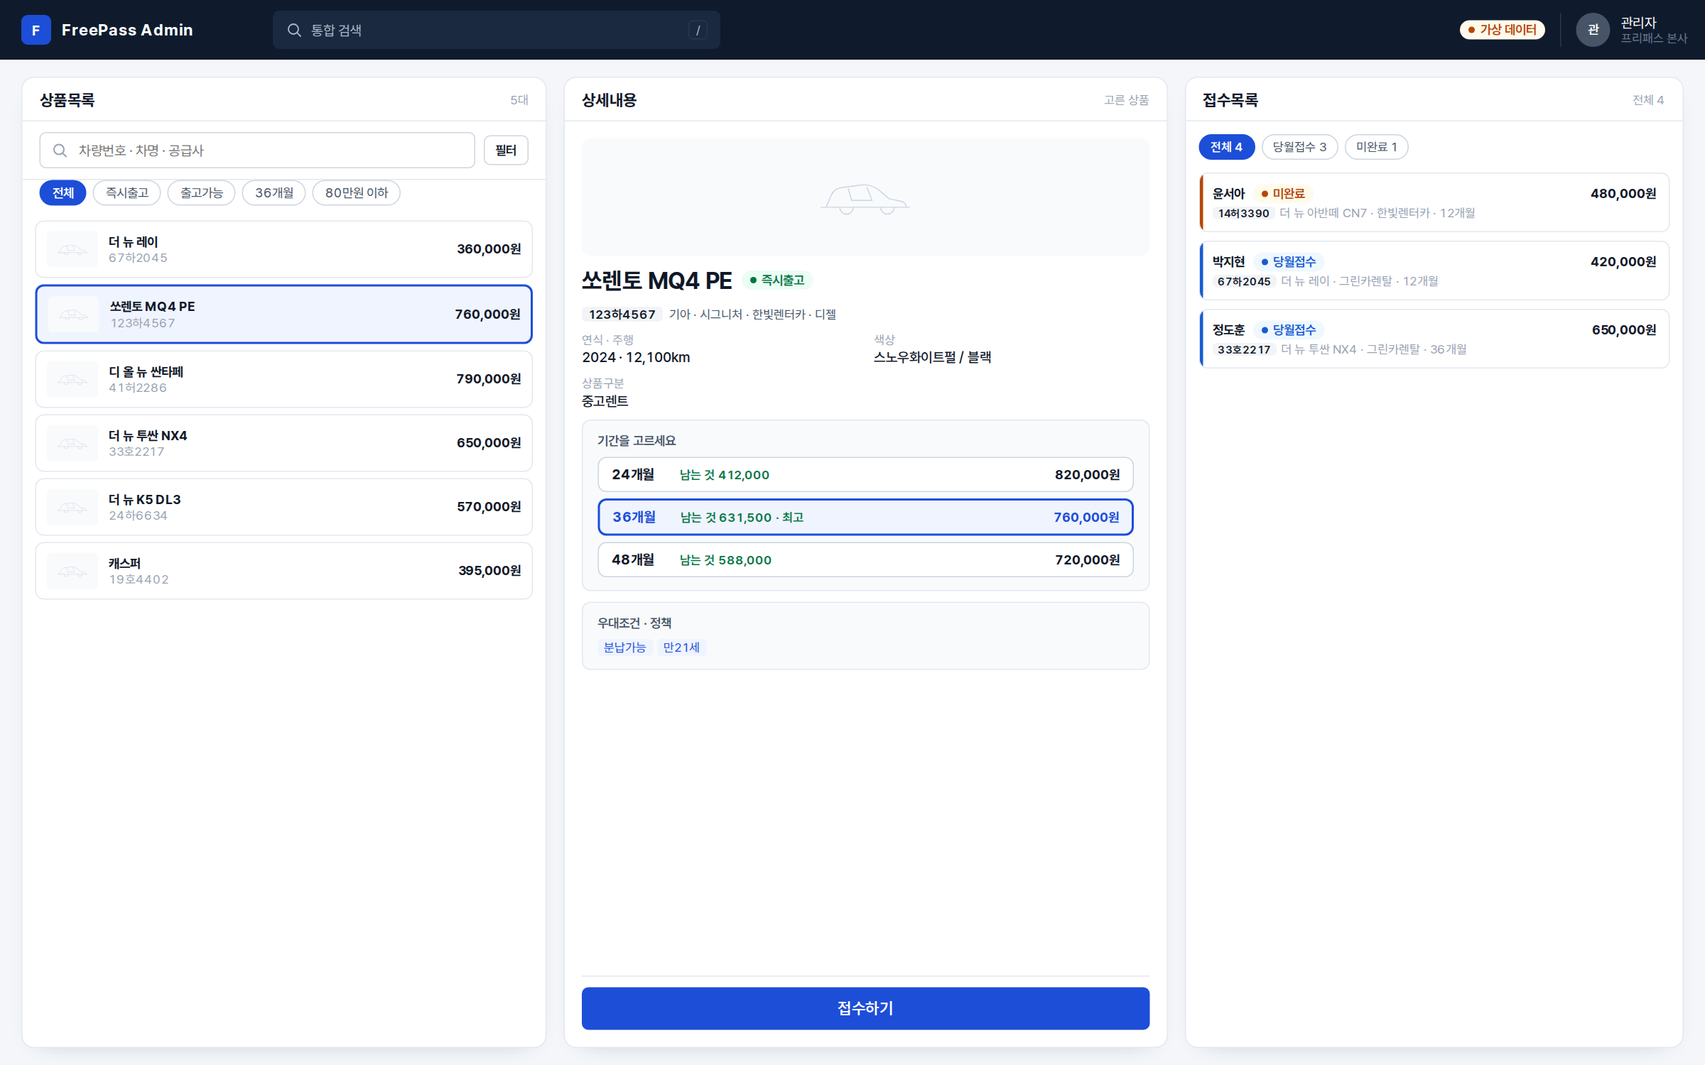
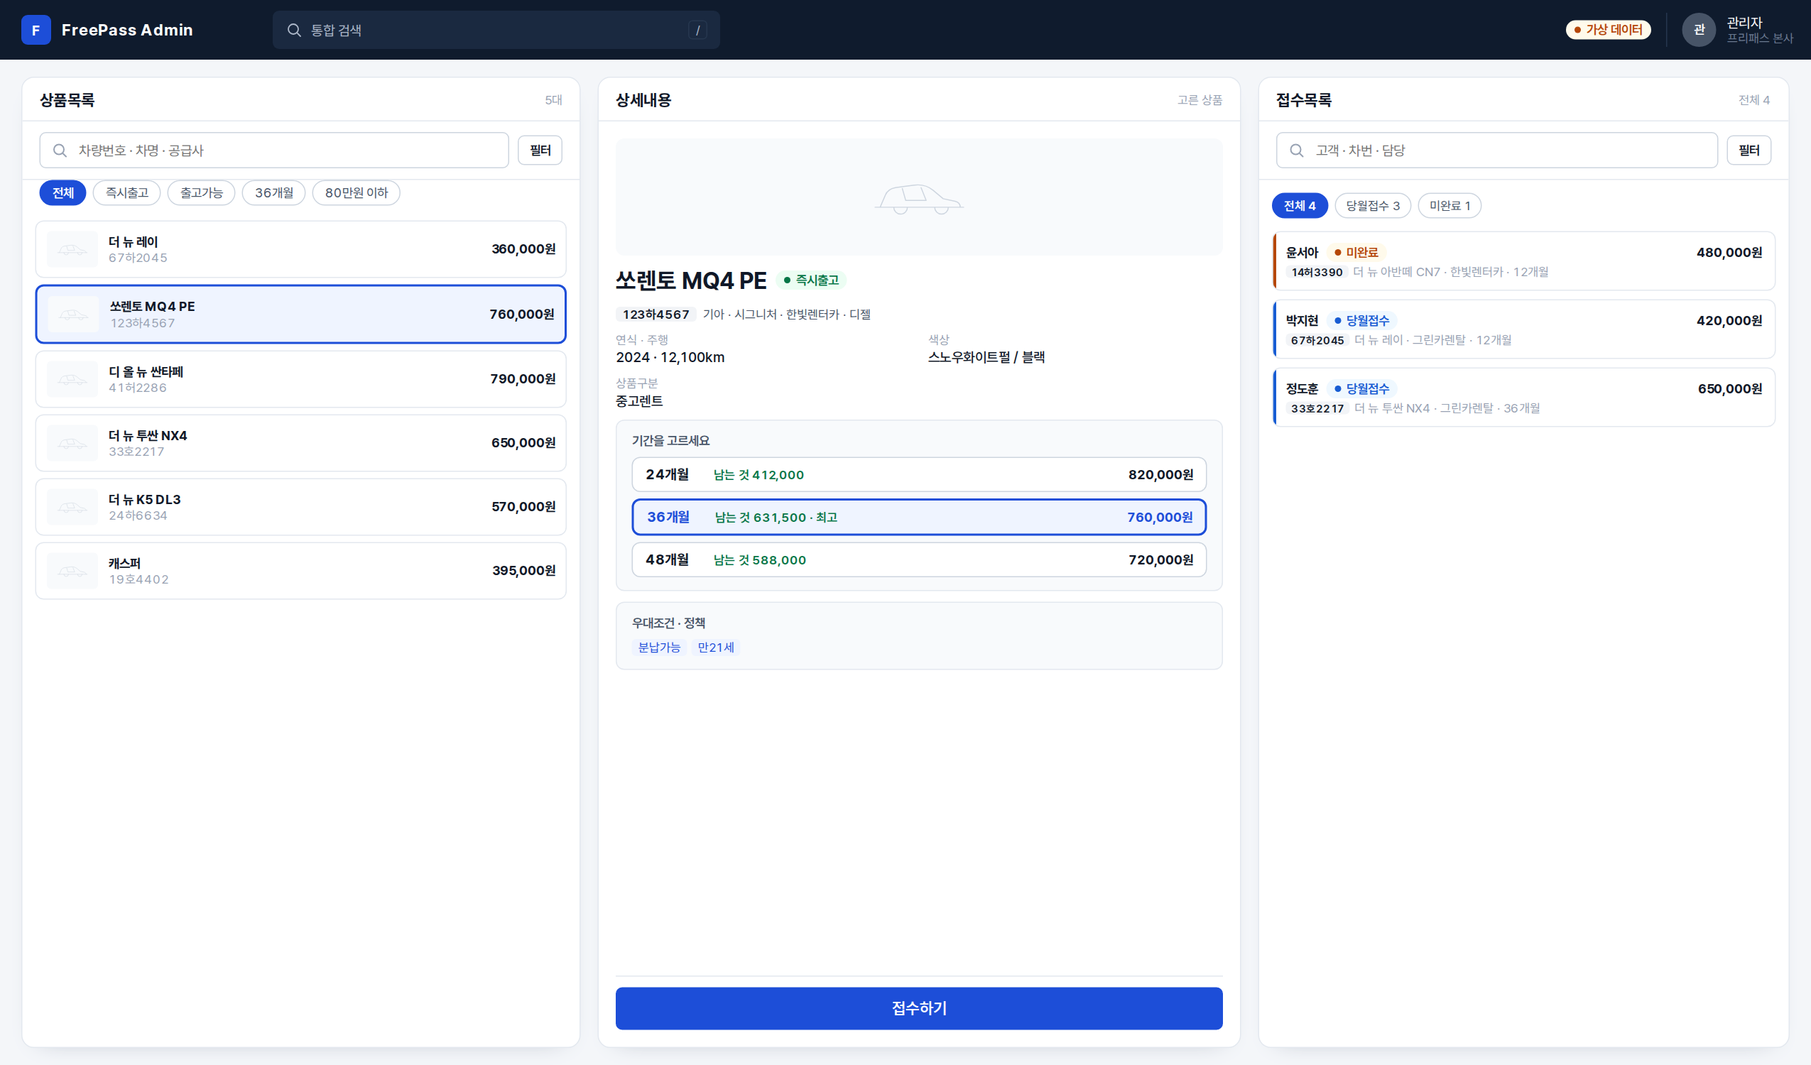
[Claude] 시안 I 확정 — 패널 3개 유지, 목록 패널 규격(검색·필터·퀵필터) 상품/접수 동일화, 폰 뎁스 내비게이션
Claude-Session: https://claude.ai/code/session_01VHqvSXhUy82o1cFFrYMP3F

diff --git a/design/erp-standard/proposals/three-panel-v2/mobile.html b/design/erp-standard/proposals/three-panel-v2/mobile.html
@@ -1,0 +1,93 @@
+<!doctype html>
+<html lang="ko">
+<head>
+<meta charset="utf-8">
+<meta name="viewport" content="width=device-width, initial-scale=1">
+<title>FreePass Admin 시안 I — 폰 뎁스 내비게이션</title>
+<!-- 시안 I 폰판(대표 2026-09-24 「목록은 다 검색 · 필터가 되어야 하니까 패널 규격이 같다 …
+     나중에 다 모바일로 뎁스를 넣어서 봐야 되니까 감안해서」).
+     PC 의 세 패널(상품목록 · 상세내용 · 접수목록)이 폰에서는 화면 하나씩, «뒤로» 로 쌓이는 뎁스가 된다.
+     이름 · 차량번호는 가상 예시다. -->
+<link rel="stylesheet" href="https://cdn.jsdelivr.net/gh/orioncactus/pretendard@v1.3.9/dist/web/variable/pretendardvariable-dynamic-subset.css">
+<link rel="stylesheet" href="../../erp.css">
+<link rel="stylesheet" href="three-panel-v2.css">
+</head>
+<body class="erp-app f3v-mobile-page">
+<h1 class="f3v-mobile-title">폰 — 뎁스로 한 장씩</h1>
+<p class="f3v-mobile-desc">PC 의 세 패널이 폰에서는 화면 하나씩입니다. 목록 → 상세내용(뒤로 가면 목록) → 접수하기 누르면 같은 자리가 접수 작성 화면으로(취소하면 상세로) → 저장하면 접수목록 화면으로. 검색창 · 필터 버튼 · 퀵 필터는 모든 목록 화면에서 똑같습니다.</p>
+<div class="f3v-phones">
+<div class="f3v-phone-wrap">
+  <p class="f3v-phone-cap"><b>1</b>상품목록</p>
+  <div class="f3v-phone">
+    <div class="f3v-phone-top">상품찾기<small>5대</small></div>
+    <div class="f3v-phone-body">
+      <div class="f3v-searchbar"><label class="f3v-search"><svg viewBox="0 0 24 24"><circle cx="11" cy="11" r="7"/><path d="m21 21-4.3-4.3"/></svg><input placeholder="차량번호 · 차명"></label><button class="erp-btn erp-btn--sm" type="button">필터</button></div>
+      <div class="f3v-quick"><button type="button" aria-pressed="true">전체</button><button type="button" aria-pressed="false">즉시출고</button><button type="button" aria-pressed="false">36개월</button></div>
+      <div class="f3v-list">
+        <div class="f3v-prow"><div class="f3v-prow-img"><svg viewBox="0 0 120 60" aria-hidden="true"><path d="M8 42h104M14 42l6-14c2-5 6-8 12-9l22-3c8-1 16 1 22 6l12 10 14 3c4 1 6 4 6 7M30 42a8 8 0 1 0 16 0M78 42a8 8 0 1 0 16 0M40 20l4 14h24l-6-15"/></svg></div><div><b>더 뉴 레이</b><small>67하2045 · 기아 · 그린카렌탈</small></div><strong>360,000원</strong></div>
+        <div class="f3v-prow" aria-current="true"><div class="f3v-prow-img"><svg viewBox="0 0 120 60" aria-hidden="true"><path d="M8 42h104M14 42l6-14c2-5 6-8 12-9l22-3c8-1 16 1 22 6l12 10 14 3c4 1 6 4 6 7M30 42a8 8 0 1 0 16 0M78 42a8 8 0 1 0 16 0M40 20l4 14h24l-6-15"/></svg></div><div><b>쏘렌토 MQ4 PE</b><small>123하4567 · 기아 · 한빛렌터카</small></div><strong>760,000원</strong></div>
+        <div class="f3v-prow"><div class="f3v-prow-img"><svg viewBox="0 0 120 60" aria-hidden="true"><path d="M8 42h104M14 42l6-14c2-5 6-8 12-9l22-3c8-1 16 1 22 6l12 10 14 3c4 1 6 4 6 7M30 42a8 8 0 1 0 16 0M78 42a8 8 0 1 0 16 0M40 20l4 14h24l-6-15"/></svg></div><div><b>디 올 뉴 싼타페</b><small>41허2286 · 현대 · 대성모빌리티</small></div><strong>790,000원</strong></div>
+        <div class="f3v-prow"><div class="f3v-prow-img"><svg viewBox="0 0 120 60" aria-hidden="true"><path d="M8 42h104M14 42l6-14c2-5 6-8 12-9l22-3c8-1 16 1 22 6l12 10 14 3c4 1 6 4 6 7M30 42a8 8 0 1 0 16 0M78 42a8 8 0 1 0 16 0M40 20l4 14h24l-6-15"/></svg></div><div><b>더 뉴 투싼 NX4</b><small>33호2217 · 현대 · 그린카렌탈</small></div><strong>650,000원</strong></div>
+      </div>
+    </div>
+  </div>
+</div>
+<span class="f3v-phone-arrow">→</span>
+<div class="f3v-phone-wrap">
+  <p class="f3v-phone-cap"><b>2</b>상세내용 · 상품상세</p>
+  <div class="f3v-phone">
+    <div class="f3v-phone-top"><span class="f3v-phone-back">‹ 목록</span>쏘렌토 MQ4 PE</div>
+    <div class="f3v-phone-body">
+      <div class="f3v-pbody">
+        <div class="f3v-photo"><svg viewBox="0 0 120 60" aria-hidden="true"><path d="M8 42h104M14 42l6-14c2-5 6-8 12-9l22-3c8-1 16 1 22 6l12 10 14 3c4 1 6 4 6 7M30 42a8 8 0 1 0 16 0M78 42a8 8 0 1 0 16 0M40 20l4 14h24l-6-15"/></svg></div>
+        <h2 class="f3v-name">쏘렌토 MQ4 PE <span class="erp-badge erp-badge--ok">즉시출고</span></h2>
+        <p class="f3v-sub"><b>123하4567</b>한빛렌터카</p>
+        <div class="f3v-box"><p class="f3v-box-title">기간을 고르세요</p>
+          <div class="f3v-terms" style="flex-direction:column;gap:6px">
+            <div class="f3v-term" aria-pressed="false"><b>24개월</b><strong>820,000원</strong><em>남는 것 412,000</em></div>
+            <div class="f3v-term" aria-pressed="true"><b>36개월</b><strong>760,000원</strong><em>남는 것 631,500 · 최고</em></div>
+            <div class="f3v-term" aria-pressed="false"><b>48개월</b><strong>720,000원</strong><em>남는 것 588,000</em></div>
+          </div>
+        </div>
+      </div>
+    </div>
+    <div class="f3v-phone-bar"><button class="erp-btn erp-btn--primary" type="button">접수하기</button></div>
+  </div>
+</div>
+<span class="f3v-phone-arrow">→</span>
+<div class="f3v-phone-wrap">
+  <p class="f3v-phone-cap"><b>3</b>상세내용 · 접수 작성(뒤집힘)</p>
+  <div class="f3v-phone">
+    <div class="f3v-phone-top"><span class="f3v-phone-back">‹ 취소</span>접수 작성<small>필수 3/3</small></div>
+    <div class="f3v-phone-body">
+      <div class="f3v-pbody">
+        <div class="f3v-mini"><div class="f3v-mini-img"><svg viewBox="0 0 120 60" aria-hidden="true"><path d="M8 42h104M14 42l6-14c2-5 6-8 12-9l22-3c8-1 16 1 22 6l12 10 14 3c4 1 6 4 6 7M30 42a8 8 0 1 0 16 0M78 42a8 8 0 1 0 16 0M40 20l4 14h24l-6-15"/></svg></div><div><b>쏘렌토 MQ4 PE · 36개월</b><small>123하4567</small></div></div>
+        <dl class="f3v-receipt" style="grid-template-columns:1fr"><div><dt>월 대여료</dt><dd>760,000원</dd></div><div class="f3v-net"><dt>남는 것</dt><dd>631,500원</dd></div></dl>
+        <div class="f3v-form" style="grid-template-columns:1fr">
+          <label class="erp-field"><span class="erp-label">고객 *</span><input class="erp-input erp-input--focus" value="김민수"></label>
+          <label class="erp-field"><span class="erp-label">영업채널 * <span class="f3v-auto">자동</span></span><span class="erp-input">프리패스 직영<svg viewBox="0 0 24 24"><path d="m6 9 6 6 6-6"/></svg></span></label>
+        </div>
+      </div>
+    </div>
+    <div class="f3v-phone-bar"><button class="erp-btn erp-btn--primary" type="submit">접수 저장</button></div>
+  </div>
+</div>
+<span class="f3v-phone-arrow">→</span>
+<div class="f3v-phone-wrap">
+  <p class="f3v-phone-cap"><b>4</b>접수목록</p>
+  <div class="f3v-phone">
+    <div class="f3v-phone-top">계약접수<small>전체 4</small></div>
+    <div class="f3v-phone-body">
+      <div class="f3v-searchbar"><label class="f3v-search"><svg viewBox="0 0 24 24"><circle cx="11" cy="11" r="7"/><path d="m21 21-4.3-4.3"/></svg><input placeholder="고객 · 차번"></label><button class="erp-btn erp-btn--sm" type="button">필터</button></div>
+      <div class="f3v-quick"><button type="button" aria-pressed="true">전체 4</button><button type="button" aria-pressed="false">당월접수 3</button></div>
+      <div class="f3v-list">
+        <div class="f3v-lrow f3v-lrow--just" data-tone="ok"><div class="f3v-lrow-top"><b>김민수 · 방금</b><span class="erp-badge erp-badge--ok">당월접수</span><strong>760,000원/월</strong></div><div class="f3v-lrow-car"><b>123하4567</b>쏘렌토 MQ4 PE</div><ol class="f3v-lsteps"><li data-state="done"><i>✓</i>접수</li><li aria-current="step"><i>2</i>계약서</li><li><i>3</i>인도</li><li><i>4</i>청구</li><li><i>5</i>수금·지급</li></ol></div>
+        <div class="f3v-prow"><div class="f3v-prow-img"><svg viewBox="0 0 120 60" aria-hidden="true"><path d="M8 42h104M14 42l6-14c2-5 6-8 12-9l22-3c8-1 16 1 22 6l12 10 14 3c4 1 6 4 6 7M30 42a8 8 0 1 0 16 0M78 42a8 8 0 1 0 16 0M40 20l4 14h24l-6-15"/></svg></div><div><b>윤서아</b><small>14허3390 · 더 뉴 아반떼 CN7</small></div><strong>480,000원</strong></div>
+        <div class="f3v-prow"><div class="f3v-prow-img"><svg viewBox="0 0 120 60" aria-hidden="true"><path d="M8 42h104M14 42l6-14c2-5 6-8 12-9l22-3c8-1 16 1 22 6l12 10 14 3c4 1 6 4 6 7M30 42a8 8 0 1 0 16 0M78 42a8 8 0 1 0 16 0M40 20l4 14h24l-6-15"/></svg></div><div><b>박지현</b><small>67하2045 · 더 뉴 레이</small></div><strong>420,000원</strong></div>
+      </div>
+    </div>
+  </div>
+</div>
+</div>
+</body>
+</html>

diff --git a/design/erp-standard/proposals/three-panel-v2/three-panel-v2.css b/design/erp-standard/proposals/three-panel-v2/three-panel-v2.css
@@ -107,3 +107,34 @@
 .f3v-lseg button { padding: 4px 10px; border: 1px solid var(--erp-color-line-strong); border-radius: var(--erp-r-pill); background: var(--erp-color-surface); color: var(--erp-color-text-2); font-size: var(--erp-fs-caption); }
 .f3v-lseg button[aria-pressed="true"] { border-color: var(--erp-color-primary); background: var(--erp-color-primary); color: var(--erp-color-on-primary); font-weight: var(--erp-fw-semibold); }
 .f3v-llist { flex: 1; min-height: 0; overflow: auto; padding: var(--erp-sp-3); display: flex; flex-direction: column; gap: 8px; }
+
+/* ── 목록 패널 규격 — 모든 목록(상품 · 접수 · 실적 · 정산)이 같다 ──
+ *   검색창 + 필터 버튼(상세 필터를 연다) + 퀵 필터 한 줄, 그 아래 줄 카드.
+ *   대상마다 다른 건 줄 카드 안의 내용뿐이다(상품 = 이 차가 무슨 차, 접수 = 이 접수가 지금 어떤 상태). */
+
+/* ── 폰 — 패널 셋이 «뎁스» 로 한 장씩 (대표 2026-09-24 「나중에 다 모바일로 뎁스를 넣어서 봐야 되니까」) ──
+ *   PC 의 세 패널이 폰에서는 화면 하나씩이 된다. 같은 부품 · 같은 클래스, 화면 폭만 꽉 채운다.
+ *   목록 → (누르면) 상세내용 → (접수하기 누르면 그 자리에서 뒤집힘) → (저장하면) 목록으로, 접수는 새 뎁스로 쌓인다. */
+.f3v-mobile-page { margin: 0; padding: 28px 40px 36px; background: var(--erp-color-bg); color: var(--erp-color-text); font-family: var(--erp-font-family); font-size: var(--erp-fs-body); }
+.f3v-mobile-title { margin: 0 0 4px; font-size: var(--erp-fs-title); font-weight: var(--erp-fw-bold); }
+.f3v-mobile-desc { margin: 0 0 22px; color: var(--erp-color-text-2); }
+.f3v-phones { display: flex; justify-content: flex-start; align-items: flex-start; gap: 16px; }
+.f3v-phone-wrap { display: flex; flex-direction: column; align-items: center; }
+.f3v-phone-cap { display: flex; align-items: center; gap: 6px; margin: 0 0 10px; color: var(--erp-color-text-2); font-size: var(--erp-fs-label); font-weight: var(--erp-fw-semibold); }
+.f3v-phone-cap b { display: inline-grid; place-items: center; width: 20px; height: 20px; border-radius: var(--erp-r-pill); background: var(--erp-color-primary); color: var(--erp-color-on-primary); font-size: var(--erp-fs-caption); }
+.f3v-phone-arrow { align-self: center; margin-top: 120px; color: var(--erp-color-text-3); font-size: 22px; }
+.f3v-phone { display: flex; flex-direction: column; width: 320px; height: 660px; overflow: hidden; border: 9px solid var(--erp-color-nav); border-radius: calc(var(--erp-r-lg) * 5); background: var(--erp-color-bg); }
+.f3v-phone-top { display: flex; align-items: center; gap: 8px; padding: 12px var(--erp-sp-3) 10px; background: var(--erp-color-nav); color: var(--erp-color-nav-text-strong); font-size: var(--erp-fs-label); font-weight: var(--erp-fw-semibold); }
+.f3v-phone-back { color: var(--erp-color-nav-text); font-size: var(--erp-fs-caption); font-weight: var(--erp-fw-regular); }
+.f3v-phone-top small { margin-left: auto; color: var(--erp-color-nav-text); font-size: var(--erp-fs-caption); font-weight: var(--erp-fw-regular); }
+.f3v-phone-body { flex: 1; min-height: 0; overflow: hidden; }
+.f3v-phone-body .f3v-searchbar { padding: 8px var(--erp-sp-3); }
+.f3v-phone-body .f3v-quick { padding: 0 var(--erp-sp-3) 8px; }
+.f3v-phone-body .f3v-list { padding: 4px var(--erp-sp-2) var(--erp-sp-2); }
+.f3v-phone-body .f3v-pbody { padding: var(--erp-sp-3); }
+.f3v-phone-body .f3v-photo { height: 100px; }
+.f3v-phone-bar { display: flex; gap: 8px; padding: 10px var(--erp-sp-3) 14px; border-top: 1px solid var(--erp-color-line); background: var(--erp-color-surface); }
+.f3v-phone-bar .erp-btn--primary { flex: 1; justify-content: center; }
+.f3v-phone-body .f3v-term { grid-template-columns: 46px minmax(0, 1fr); row-gap: 2px; }
+.f3v-phone-body .f3v-term strong { grid-column: 2; justify-self: end; }
+.f3v-phone-body .f3v-term em { grid-column: 1 / -1; }

diff --git a/design/erp-standard/proposals/three-panel-v2/flip.html b/design/erp-standard/proposals/three-panel-v2/flip.html
@@ -67,6 +67,10 @@
     </section>
     <section class="f3v-panel">
       <div class="f3v-phead"><h2>접수목록</h2><span>전체 5</span></div>
+      <div class="f3v-searchbar" data-region="filter" role="search">
+        <label class="f3v-search"><svg viewBox="0 0 24 24"><circle cx="11" cy="11" r="7"/><path d="m21 21-4.3-4.3"/></svg><input placeholder="고객 · 차번 · 담당" aria-label="검색"></label>
+        <button class="erp-btn erp-btn--sm" type="button">필터</button>
+      </div>
       <div class="f3v-toast"><i>✓</i><span>방금 접수 저장됨 — 쏘렌토 MQ4 PE · 김민수</span></div>
       <div class="f3v-lseg" role="group" aria-label="접수 칸"><button type="button" aria-pressed="true">전체 5</button><button type="button" aria-pressed="false">당월접수 4</button><button type="button" aria-pressed="false">미완료 1</button></div>
       <div class="f3v-llist" role="list">

diff --git a/design/erp-standard/proposals/three-panel-v2/browse.html b/design/erp-standard/proposals/three-panel-v2/browse.html
@@ -66,6 +66,10 @@
     </section>
     <section class="f3v-panel">
       <div class="f3v-phead"><h2>접수목록</h2><span>전체 4</span></div>
+      <div class="f3v-searchbar" data-region="filter" role="search">
+        <label class="f3v-search"><svg viewBox="0 0 24 24"><circle cx="11" cy="11" r="7"/><path d="m21 21-4.3-4.3"/></svg><input placeholder="고객 · 차번 · 담당" aria-label="검색"></label>
+        <button class="erp-btn erp-btn--sm" type="button">필터</button>
+      </div>
       
       <div class="f3v-lseg" role="group" aria-label="접수 칸"><button type="button" aria-pressed="true">전체 4</button><button type="button" aria-pressed="false">당월접수 3</button><button type="button" aria-pressed="false">미완료 1</button></div>
       <div class="f3v-llist" role="list">

diff --git a/design/erp-standard/proposals/three-panel-v2/README.md b/design/erp-standard/proposals/three-panel-v2/README.md
@@ -1,38 +1,61 @@
-# 시안 I — 조립되는 패널 3개, 상품찾기는 미니멀 (후보, 유력)
+# 시안 I — 패널 3개(상품목록 · 상세내용 · 접수목록), 목록 패널 규격 통일 + 폰 뎁스 (확정)
 
-대표 2026-09-24 「여러 화면을 만들면 안 되니까 … 패널을 조립할 거야, 각 페이지를 구성하는 패널이 있는데.
-상품찾기 패널 — 검색창과 필터 버튼이 있고 퀵 필터 버튼이 있잖아. 심플하게 미니멀라이즈.
-상품목록 패널 · 상세내용 패널 · 접수목록 패널」.
+대표 2026-09-24 확정 흐름:
+1. 「관리자 페이지고 공간이 여유 있으니 … 패널이 총 3개였으면 좋겠어 — 상품목록 패널 · 상세내용 패널 · 접수목록 패널」
+2. 「상세내용 패널에 접수하기 버튼이 있고, 누르면 그 상세내용이 접수 패널로 바뀌는 거지」(패널 두 개로 줄이는 게 아니라 **세 개를 유지**)
+3. 「목록은 다 검색 · 필터가 되어야 하니까 목록 패널 규격이 똑같다 — 목록 패널, 뭔가 작업하는 상세내용 패널이 있고,
+   나중에 다 모바일로 뎁스를 넣어서 봐야 되니까 그걸 감안해서」
 
-시안 H(패널 3개)의 방향은 맞되, ① 패널의 무거운 필터 묶음(칩 여러 줄 · 슬라이더)을 걷어내고
-**검색창 + 필터 버튼 + 퀵 필터 칩** 한 줄로 미니멀라이즈했다(규격 §5-1 그대로). 상세 필터는 버튼 뒤에 접어 둔다.
+## 메인 페이지 — 패널 3개, 항상 같이 뜬다
 
-## 세 패널 — 조립 부품
-
-| 패널 | 머리 | 몸통 |
-|---|---|---|
-| ① 상품목록 | — | 검색창 + 「필터」 버튼(한 줄) → 퀵 필터 칩(전체 · 즉시출고 · 출고가능 · 36개월 · 80만원 이하) → 좁은 줄 카드 목록 |
-| ② 상세내용 | "고른 상품" / "필수 3/3" | **두 면**: 보기 면(사진 · 상세 · 기간 카드 3장 · 「접수하기」) ↔ 접수 면(뒤집으면 영수증 + 고객 · 영업 폼 + 「취소」·「접수 저장」) |
-| ③ 접수목록 | 건수 | 세그(전체 · 당월접수 · 미완료) + 상태 줄 카드. 방금 저장한 줄만 진행 단계가 펼쳐짐 |
+```
+[① 상품목록]                    [② 상세내용 — 상품상세]              [③ 접수목록]
+ 검색 · 필터 · 퀵필터 → 줄 카드    사진 · 조건 · 기간 카드 → 「접수하기」    검색 · 필터 · 퀵필터 → 상태 줄 카드
+                                        │
+                                        ▼ (같은 자리에서 뒤집힘)
+                                [② 상세내용 — 접수 작성]
+                                 영수증 + 고객 · 영업 폼 → 「취소」/「접수 저장」
+                                        │
+                                        ▼ 저장
+                                (①③ 는 그대로, ③ 맨 위에 방금 접수가 상태 펼친 채로)
+```
 
 | 상태 | 파일 | 그림 |
 |---|---|---|
-| 보기 상태(①②③ 기본) | [`browse.html`](browse.html) | `../../images/proposal-three-panel-v2-browse.png` |
-| ② 가 접수 면으로 뒤집힌 상태, ③ 에 방금 접수가 반영됨 | [`flip.html`](flip.html) | `../../images/proposal-three-panel-v2-flip.png` |
+| 보기(3패널 기본) | [`browse.html`](browse.html) | `../../images/proposal-three-panel-v2-browse.png` |
+| ② 가 접수 작성 면으로 뒤집힘, ③ 반영 | [`flip.html`](flip.html) | `../../images/proposal-three-panel-v2-flip.png` |
+| 폰 — 뎁스 4장 | [`mobile.html`](mobile.html) | `../../images/proposal-three-panel-v2-mobile.png` |
 
-## 동선
+## 목록 패널 규격 — 상품목록 · 접수목록이 완전히 같다
+
+두 목록 모두 머리가 **검색창 + 「필터」 버튼(상세 필터를 연다) + 퀵 필터 한 줄**로 똑같다(`f3v-searchbar` · `f3v-search` · `f3v-quick`).
+다른 건 줄 카드 안의 내용뿐이다.
+
+| 목록 | 줄 카드가 보여주는 것 |
+|---|---|
+| 상품목록 | 이 차가 무슨 차인지 — 차명 · 차번 · 트림 · 공급사 · 월 대여료 |
+| 접수목록 | 이 접수가 지금 어떤 상태인지 — 고객 · 차번 · 금액 + **진행 단계가 카드 안에 작게 펼쳐짐**(접수 → 계약서 → 인도 → 청구 → 수금·지급) |
+
+나중에 실적목록 · 정산목록도 같은 머리(검색 · 필터 · 퀵 필터)에 그 대상에 맞는 줄 카드 내용만 채우면 된다.
+
+## 상세내용 패널 — 두 면
+
+「접수하기」 버튼이 있는 **상품상세**가, 그 자리에서 뒤집혀 **접수 작성**(고객 · 영업 폼 + 취소/저장)이 된다(시안 G 의 뒤집기 그대로).
+접수상세 · 실적상세 · 정산상세는 같은 패널 자리에 그 대상의 내용을 채운 것 — 상세내용 패널도 하나의 규격이다.
+
+## 폰 — 뎁스 내비게이션 (4장)
+
+PC 의 패널 셋이 폰에서는 **화면 하나씩**이 된다. 같은 부품 · 같은 클래스를 쓰고 폭만 꽉 채운다.
 
 ```
-① 목록에서 차를 고른다 → ② 상세내용에 그 차가 뜬다(기간을 고른다) → 「접수하기」
-  → ② 가 그 자리에서 뒤집혀 접수 면이 된다(고객 · 영업만 채움)
-    ├─ 「취소」 → ② 가 도로 뒤집혀 보기 면으로
-    └─ 「접수 저장」 → ③ 접수목록 맨 위에 방금 접수가 진행 단계 펼친 채로 나타난다(화면은 그대로)
+1 상품목록 (전체 화면) → 2 상세내용 · 상품상세(‹ 목록으로 뒤로) → 3 상세내용 · 접수 작성(뒤집힘, ‹ 취소로 뒤로)
+                                                                        → 4 접수목록(저장 후, 방금 접수가 상태 펼친 채로)
 ```
 
-화면은 한 장뿐이다. 세 패널은 각자의 조립 부품으로, 다른 페이지(예: 실적 · 정산관리)를 만들 때도
-③ 접수목록 자리에 다른 목록 패널을 갈아 끼우는 식으로 재사용한다.
+- 목록 화면(1·4)은 검색창 · 필터 버튼 · 퀵 필터가 PC 와 똑같다.
+- 뎁스는 머리의 «‹ 뒤로» 하나로 쌓이고 풀린다. 별도 탭바 없이 화면 전환만으로 depth 를 표현한다.
+- 저장은 화면을 접수목록으로 보낸다(취소는 뎁스를 한 칸만 되돌린다).
 
 ## 공통
 
-- 요약 카드 · 대수 카드 없음.
-- ①③ 은 규격 카드 규칙(줄 카드) 그대로, ② 만 두 면을 갖는 특수 패널.
+- 요약 카드 · 대수 카드 없음. 위 메뉴는 상품찾기 · 계약접수 · 실적 · 정산관리, 전자계약은 점선.
